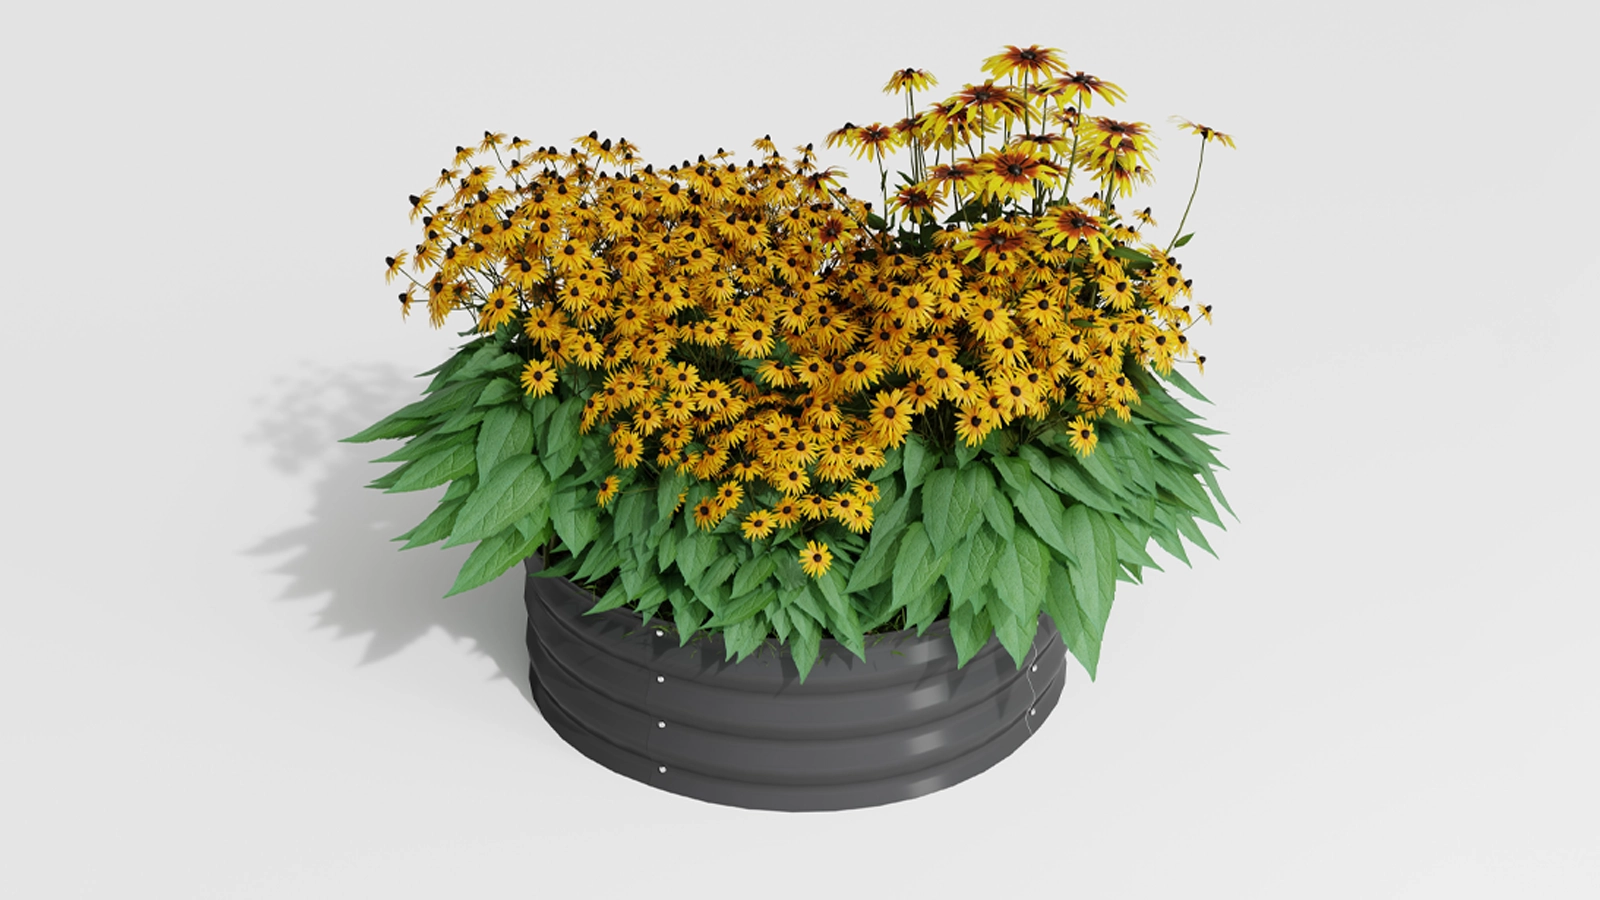
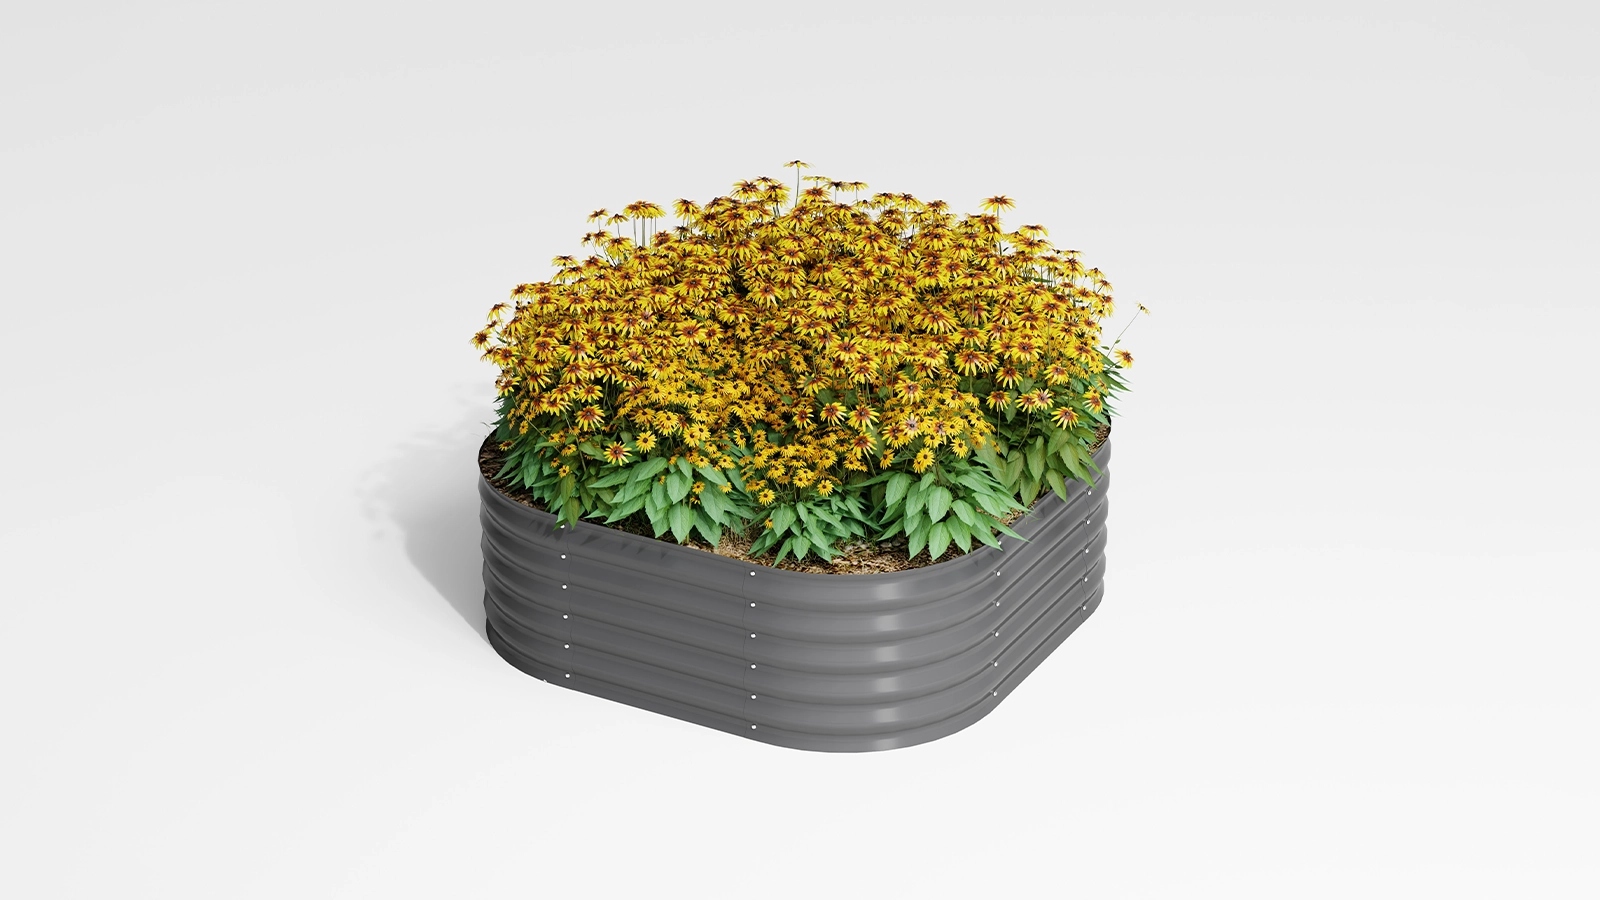
add 1 new

diff --git a/data/products.ts b/data/products.ts
@@ -150,7 +150,7 @@ export const manufacturingCards = [
 export const heroSlides = [
   {
     title: "garden bed",
-    image: "/images/products/raised-garden-bed/raised-garden-bed-fc-c4c/detail-carousel/01-main.webp",
+    image: "/images/slide-garden-bed.jpg",
   },
   {
     title: "tool shed",
@@ -174,7 +174,7 @@ export const heroSlides = [
   },
   {
     title: "entry steel door",
-    image: "/images/products/entry-door/pivot-door-SED-01/detail-carousel/desktop/01-scene-main.jpg",
+    image: "/images/slide-entry-door.webp",
   },
   {
     title: "aluminum window",
